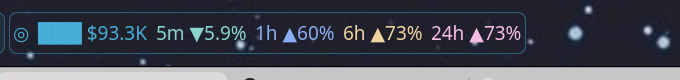
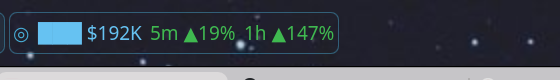
Solana Watchlist: red/green price change, optional solid background
Changes are green when up and red when down (fixed colours: some themes give
positive and negative text the same hue). A popup checkbox draws a solid
rounded background behind the panel text, using the theme's tooltip surface.

diff --git a/solana-watchlist/package/contents/ui/main.qml b/solana-watchlist/package/contents/ui/main.qml
@@ -17,12 +17,11 @@ PlasmoidItem {
     readonly property string backend: "python3 '" + decodeURIComponent(Qt.resolvedUrl("../code/sol-mc").toString().replace("file://", "")) + "'"
     readonly property int maxInPanel: 3
     readonly property int panelFontSize: 14
-    // One colour per time frame, same in the panel and the popup.
     readonly property var windows: [
-        { key: "m5",  label: "5m",  color: "#8BD5CA" },
-        { key: "h1",  label: "1h",  color: "#8AADF4" },
-        { key: "h6",  label: "6h",  color: "#EED49F" },
-        { key: "h24", label: "24h", color: "#F5BDE6" }
+        { key: "m5",  label: "5m" },
+        { key: "h1",  label: "1h" },
+        { key: "h6",  label: "6h" },
+        { key: "h24", label: "24h" }
     ]
     property var tokens: []
     readonly property var shown: tokens.filter(t => !t.hidden)
@@ -47,6 +46,16 @@ PlasmoidItem {
         property color frameColor
         color: frameColor
         onColorChanged: if (!Qt.colorEqual(color, frameColor)) Qt.callLater(() => color = frameColor)
+    }
+
+    // Green up, red down; plain text when DexScreener has no figure. Fixed colours rather than
+    // the theme's positive/negative ones, which some themes make the same hue.
+    readonly property color upColor: "#3FB950"
+    readonly property color downColor: "#F85149"
+    function changeColor(c) {
+        if (c === undefined || c === null)
+            return Kirigami.Theme.textColor
+        return c >= 0 ? upColor : downColor
     }
 
     function fmt(c) {
@@ -135,10 +144,26 @@ PlasmoidItem {
                                   : "Click to add a token"
 
     compactRepresentation: MouseArea {
-        Layout.minimumWidth: row.implicitWidth + Kirigami.Units.smallSpacing * 2
+        readonly property bool solid: Plasmoid.configuration.solidBackground
+        Layout.minimumWidth: row.implicitWidth + (solid ? Kirigami.Units.largeSpacing * 2 : Kirigami.Units.smallSpacing * 2)
         Layout.preferredWidth: Layout.minimumWidth
         hoverEnabled: true
         onClicked: root.expanded = !root.expanded
+
+        // Optional solid pill behind the text; off = transparent (panel / Panel Colorizer shows through).
+        Rectangle {
+            visible: parent.solid
+            anchors.fill: parent
+            anchors.topMargin: Kirigami.Units.smallSpacing
+            anchors.bottomMargin: Kirigami.Units.smallSpacing
+            radius: height / 4
+            // Tooltip colours: the theme's raised surface, so it stands out from the panel.
+            Kirigami.Theme.colorSet: Kirigami.Theme.Tooltip
+            Kirigami.Theme.inherit: false
+            color: Kirigami.Theme.backgroundColor
+            border.width: 1
+            border.color: Qt.alpha(Kirigami.Theme.highlightColor, 0.45)
+        }
 
         RowLayout {
             id: row
@@ -164,7 +189,7 @@ PlasmoidItem {
                         delegate: FrameLabel {
                             required property var modelData
                             text: modelData.label + " " + root.fmt(tokenRow.modelData.changes[modelData.key])
-                            frameColor: modelData.color
+                            frameColor: root.changeColor(tokenRow.modelData.changes[modelData.key])
                             font.pointSize: root.panelFontSize
                         }
                     }
@@ -225,13 +250,17 @@ PlasmoidItem {
                             checked: root.panelKeys.includes(windowToggle.modelData.key)
                             onToggled: root.togglePanelWindow(windowToggle.modelData.key, checked)
                         }
-                        FrameLabel {
+                        PC3.Label {
                             text: windowToggle.modelData.label
-                            frameColor: windowToggle.modelData.color
                         }
                     }
                 }
                 Item { Layout.fillWidth: true }
+                PC3.CheckBox {
+                    text: "Solid background"
+                    checked: Plasmoid.configuration.solidBackground
+                    onToggled: Plasmoid.configuration.solidBackground = checked
+                }
             }
 
             PC3.ScrollView {
@@ -285,7 +314,7 @@ PlasmoidItem {
                                         delegate: FrameLabel {
                                             required property var modelData
                                             text: modelData.label + " " + root.fmt(item.modelData.changes[modelData.key])
-                                            frameColor: modelData.color
+                                            frameColor: root.changeColor(item.modelData.changes[modelData.key])
                                         }
                                     }
                                 }

diff --git a/solana-watchlist/README.md b/solana-watchlist/README.md
@@ -1,18 +1,19 @@
 # Solana Watchlist
 
 A KDE Plasma 6 panel widget that tracks the market cap of Solana tokens you choose, with
-colour-coded price change over 5 minutes, 1 hour, 6 hours and 24 hours.
+price change over 5 minutes, 1 hour, 6 hours and 24 hours in green (up) or red (down).
 
 ![Solana Watchlist on the panel](screenshots/panel.png)
 
-- **On the panel:** symbol, market cap and the price change for each time frame, each in its
-  own colour. Up to 3 tokens are shown, then `+N`.
+- **On the panel:** symbol, market cap and the price change for each time frame, green when
+  up and red when down. Up to 3 tokens are shown, then `+N`.
 - **Click it** for the full list. Each token shows its name, market cap, price, all four
   changes and its address, with buttons to hide it from the panel, open it on DexScreener,
   copy the address, or remove it.
 - **Add a token** by pasting its address into the popup. It is checked against DexScreener
   before it's added.
-- **Choose the time frames** shown on the panel with the checkboxes at the top of the popup.
+- **Choose the time frames** shown on the panel with the checkboxes at the top of the popup,
+  and whether the panel text sits on a **solid background** or a transparent one.
 - **Live market cap, updated every ~5 seconds.**
 
 Market data comes from two public APIs, no key or account needed:
@@ -81,7 +82,7 @@ python3 package/contents/code/sol-mc --add ADDRESS   # also --remove, --hide, --
 ## Notes
 
 - If you use [Panel Colorizer](https://github.com/luisbocanegra/plasma-panel-colorizer), its
-  foreground colour would normally override the time-frame colours; the widget puts them back.
+  foreground colour would normally override the red/green; the widget puts it back.
 - Token names come straight from DexScreener, so some meme tokens show odd symbols.
 - Not financial advice; prices can lag or be missing for tokens with little trading.
 
